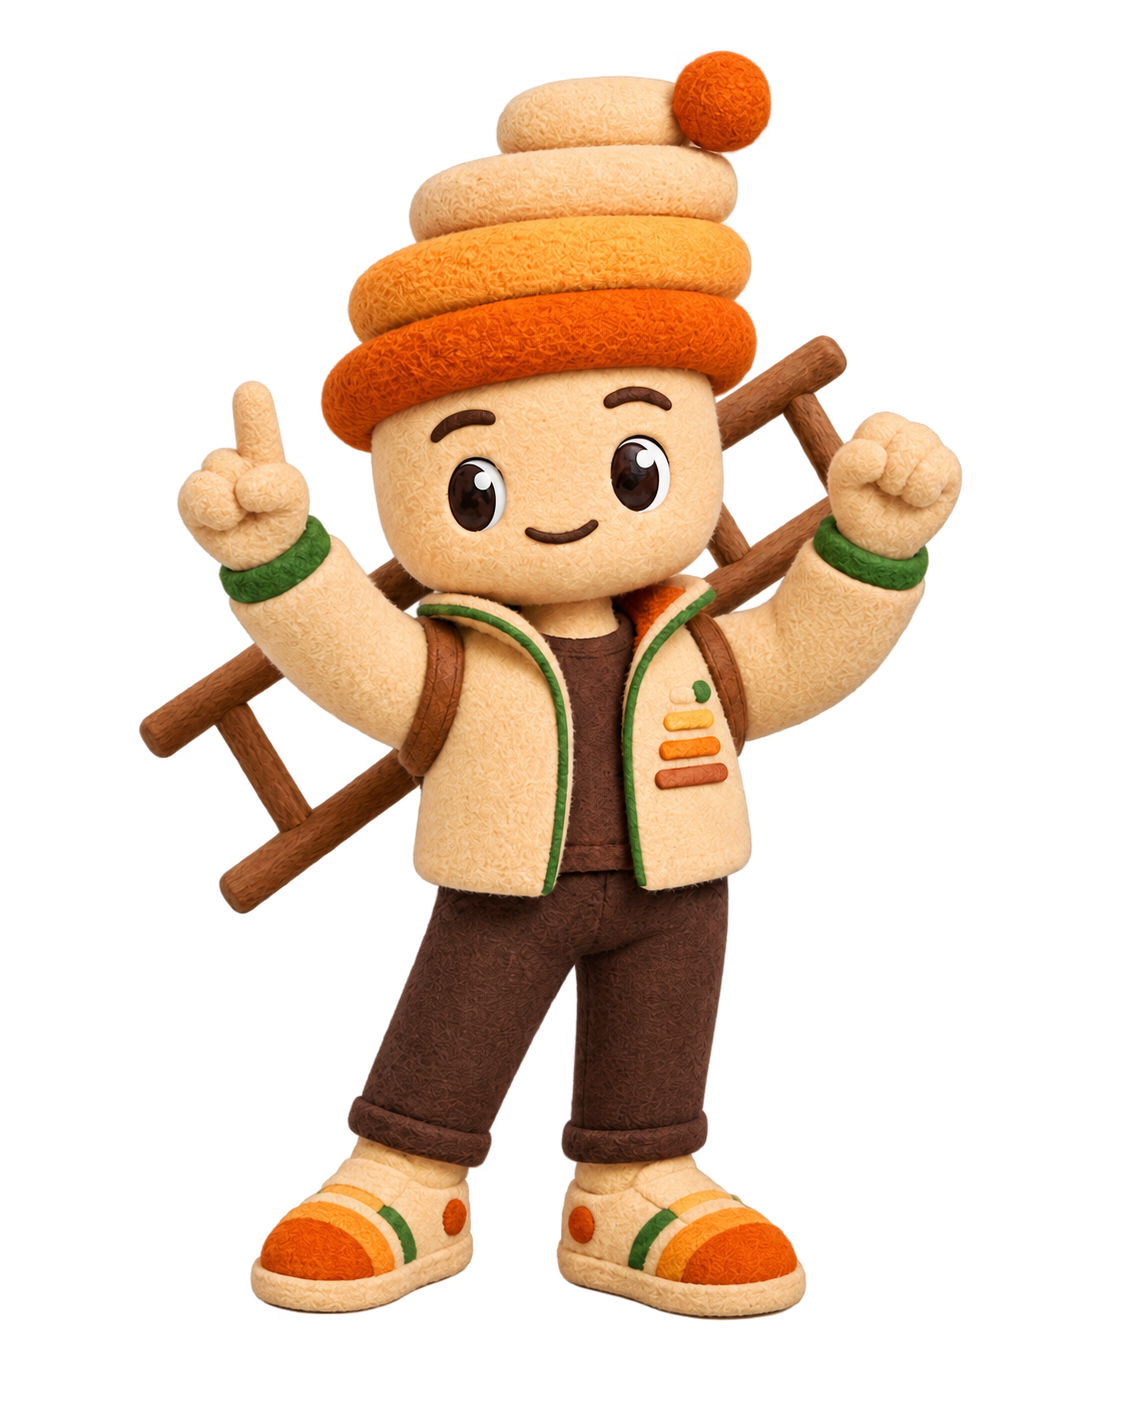
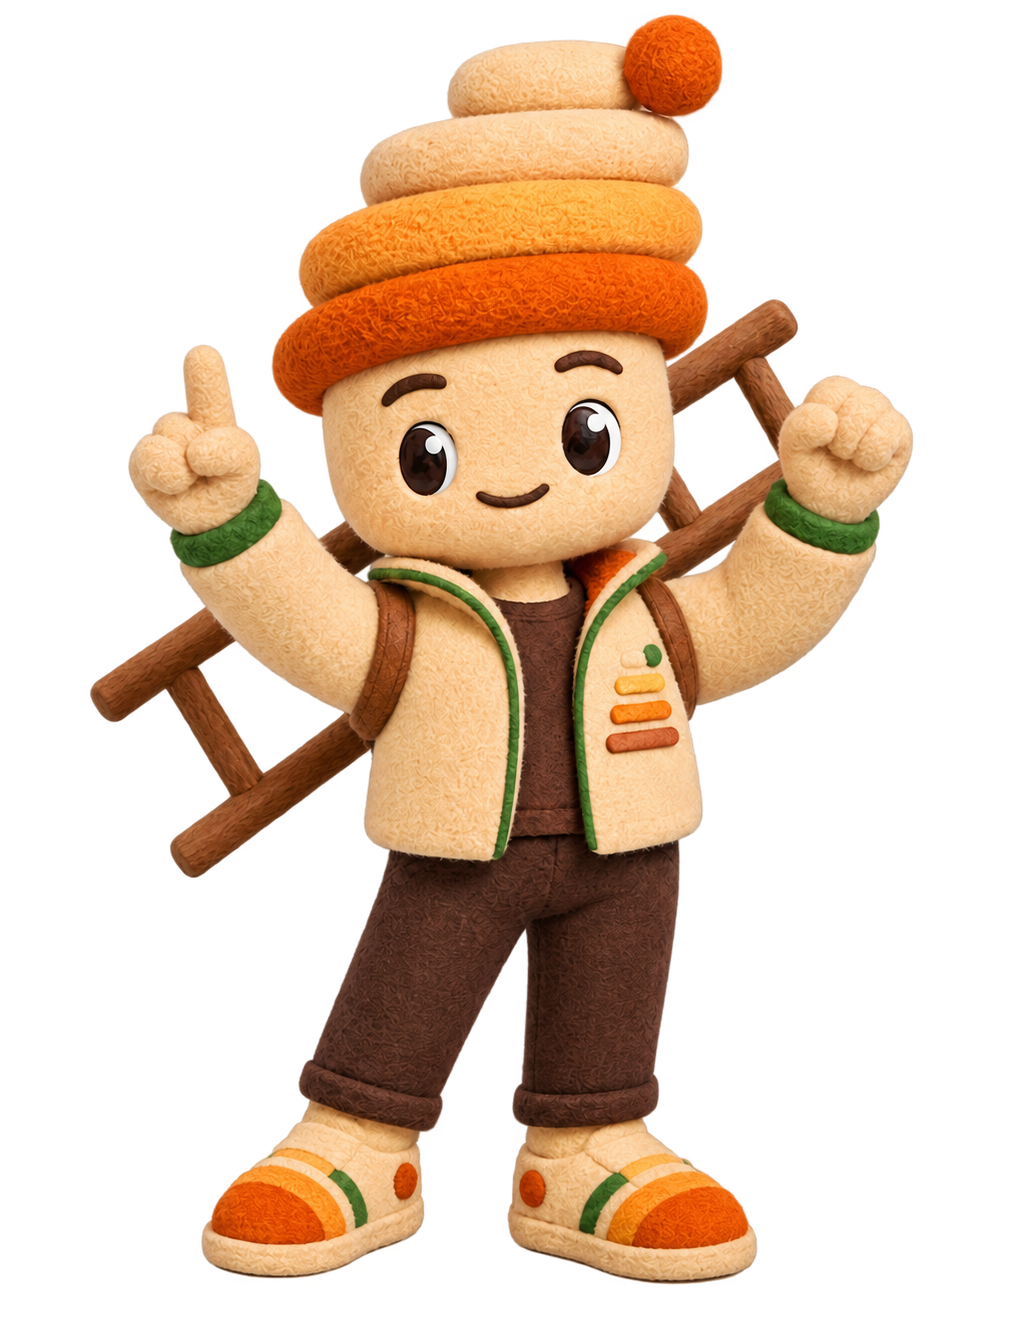
Fix pointing pose size, add a real speech bubble to the goodbye clip, and auto-loop the Work History message
- Tightly crop rudy-point-alt.png to its content bounding box — its
  canvas had proportionally more padding than rudy-note.png, so
  height-locked sizing still rendered it slightly smaller even after
  the earlier aspect-ratio fix
- Add a real "Thank you!" speech bubble over the top of the goodbye
  clip instead of continuing to fight the video's own leftover ghost
  text with pixel-level fades/crops — simpler, matches the app's
  existing bubble style, and fully covers the faint remnant
- The Work History two-beat message now keeps alternating between the
  paystub instruction and the no-resumes line on a timer for as long as
  the screen is up, so the clickable link is never permanently out of
  view (tried manual prev/next chevrons first; cut for a cleaner look)

Claude-Session: https://claude.ai/code/session_017phizbK6ykzjEK7zN57fD1

Changed region(s): [[0.0935, 0.0, 0.9036, 0.9835], [0.4674, 0.7069, 0.4985, 0.7376], [0.4362, 0.7684, 0.4674, 0.7991]]

diff --git a/js/render.js b/js/render.js
@@ -417,34 +417,53 @@ function renderEmployment(persona, story) {
 }
 
 // Rudy delivers this as two beats rather than one crowded bubble: the
-// paystub instruction first, then a re-pose (pointing, other hand) for
-// the no-resumes line + link. Rudy himself is pinned dead-center of the
+// paystub instruction, and a re-pose (pointing, other hand) for the
+// no-resumes line + link. Rudy himself is pinned dead-center of the
 // stage for both beats (see #employment-rudy-avatar CSS) — only the
 // bubble hops from his right to his left, so he never visibly moves.
 // The new pose keeps his ladder on the same shoulder as the first beat
-// (unflipped). The second beat never auto-advances away — it holds the
-// clickable link on screen indefinitely. Reduced motion skips the
-// timed swap and shows both lines together immediately, on his
-// original side.
-function playEmploymentRudySequence() {
+// (unflipped). The two beats keep alternating on a timer for as long as
+// the screen is up, so the no-resumes link is never permanently out of
+// view. Reduced motion skips the toggling and shows both lines together
+// immediately, on the original side.
+var EMPLOYMENT_RUDY_LINES = {
+  1: { src: 'assets/img/rudy-note.png?v=3', html: '<p>Pick whichever one holds your paystubs &mdash; I&rsquo;ll do the rest.</p>', side: 'bubble-right' },
+  2: { src: 'assets/img/rudy-point-alt.png', html: '<p>Rundle doesn&rsquo;t accept resumes. <span class="bubble-link" id="no-resume-why">Click here to find out why.</span></p>', side: 'bubble-left' }
+};
+var employmentRudyBeat = 1;
+var employmentRudyIntervalId = null;
+
+function setEmploymentRudyBeat(n) {
   var note = document.getElementById('employment-rudy-note');
   var avatar = document.getElementById('employment-rudy-avatar');
   var bubble = document.getElementById('employment-rudy-bubble');
-  if (!note || !avatar || !bubble) return;
-  var secondLine = '<p>Rundle doesn&rsquo;t accept resumes. <span class="bubble-link" id="no-resume-why">Click here to find out why.</span></p>';
+  if (!note || !avatar || !bubble || n === employmentRudyBeat) return;
+  employmentRudyBeat = n;
+  var line = EMPLOYMENT_RUDY_LINES[n];
+  function apply() {
+    avatar.src = line.src;
+    bubble.innerHTML = line.html;
+    bubble.classList.remove('bubble-right', 'bubble-left');
+    bubble.classList.add(line.side);
+  }
+  if (reduceMotion) { apply(); return; }
+  note.classList.add('rudy-beat-out');
+  setTimeout(function () {
+    apply();
+    note.classList.remove('rudy-beat-out');
+  }, 320);
+}
+
+function playEmploymentRudySequence() {
+  employmentRudyBeat = 1;
+  if (employmentRudyIntervalId) { clearInterval(employmentRudyIntervalId); employmentRudyIntervalId = null; }
   if (reduceMotion) {
-    bubble.insertAdjacentHTML('beforeend', secondLine);
+    var bubble = document.getElementById('employment-rudy-bubble');
+    if (bubble) bubble.insertAdjacentHTML('beforeend', EMPLOYMENT_RUDY_LINES[2].html);
     return;
   }
-  setTimeout(function () {
-    note.classList.add('rudy-beat-out');
-    setTimeout(function () {
-      avatar.src = 'assets/img/rudy-point-alt.png';
-      bubble.innerHTML = secondLine;
-      bubble.classList.remove('bubble-right');
-      bubble.classList.add('bubble-left');
-      note.classList.remove('rudy-beat-out');
-    }, 320);
+  employmentRudyIntervalId = setInterval(function () {
+    setEmploymentRudyBeat(employmentRudyBeat === 1 ? 2 : 1);
   }, 3400);
 }
 

diff --git a/css/app.css b/css/app.css
@@ -471,6 +471,22 @@
     border-color: transparent transparent transparent var(--surface-raised);
     filter: drop-shadow(0.05rem 0 0.05rem hsl(var(--shadow-color) / 0.08));
   }
+  /* Goodbye screen: a real speech bubble sitting right over the top of
+     the clip, both as the "he's saying this" moment and to cover the
+     faint leftover trace of the clip's own baked-in title text there. */
+  .goodbye-bubble {
+    position: absolute; top: -0.2rem; left: 50%; transform: translateX(-50%);
+    z-index: 2; background: var(--surface-raised); border: 1px solid var(--line);
+    border-radius: 0.9rem; padding: 0.5rem 1.1rem; white-space: nowrap;
+    font-family: 'Fraunces'; font-weight: 600; font-size: 1rem; color: var(--ink);
+    box-shadow: 0 0.3rem 0.7rem -0.3rem hsl(var(--shadow-color) / 0.25);
+  }
+  .goodbye-bubble::after {
+    content: ''; position: absolute; left: 50%; bottom: -0.38rem; margin-left: -0.4rem;
+    border-width: 0.5rem 0.4rem 0 0.4rem; border-style: solid;
+    border-color: var(--surface-raised) transparent transparent transparent;
+    filter: drop-shadow(0 0.05rem 0.05rem hsl(var(--shadow-color) / 0.08));
+  }
   @media (prefers-reduced-motion: reduce) {
     #employment-rudy-note { transition: none; }
   }

diff --git a/index.html b/index.html
@@ -318,7 +318,10 @@
       <div class="back-btn" style="display:flex;align-items:center;gap:0.3rem;cursor:pointer;"><svg style="width:1rem;height:1rem;transform:rotate(180deg);color:var(--ink-soft)"><use href="#i-chev"/></svg></div>
     </div>
     <div style="flex:1;min-height:0;display:flex;flex-direction:column;align-items:center;justify-content:center;gap:1.1rem;padding:0 1.5rem 1.5rem;text-align:center;">
-      <img src="assets/img/rundle-goodbye.gif" alt="Rudy waving goodbye" style="width:100%;max-width:22rem;height:auto;" />
+      <div style="position:relative;width:100%;max-width:22rem;">
+        <div class="goodbye-bubble">Thank you!</div>
+        <img src="assets/img/rundle-goodbye.gif" alt="Rudy waving goodbye" style="display:block;width:100%;height:auto;" />
+      </div>
       <div class="h-lead" style="font-size:1.05rem;">Thanks for checking out Rundle!</div>
       <div class="cta" id="goodbye-restart-btn" style="width:100%;max-width:16rem;">Start over</div>
     </div>
